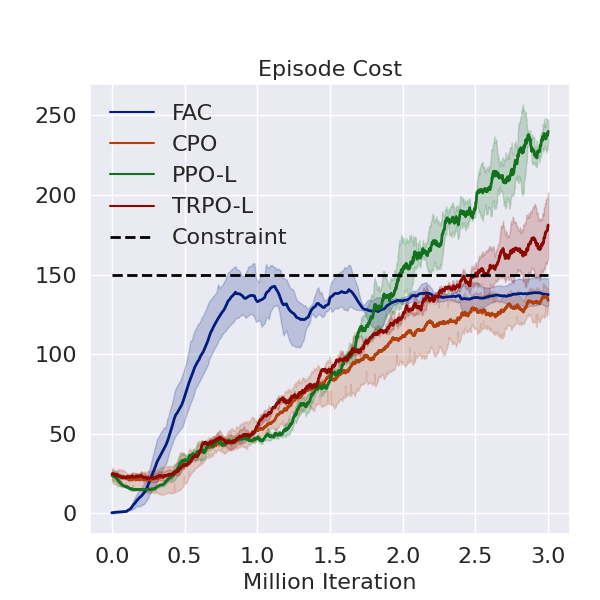
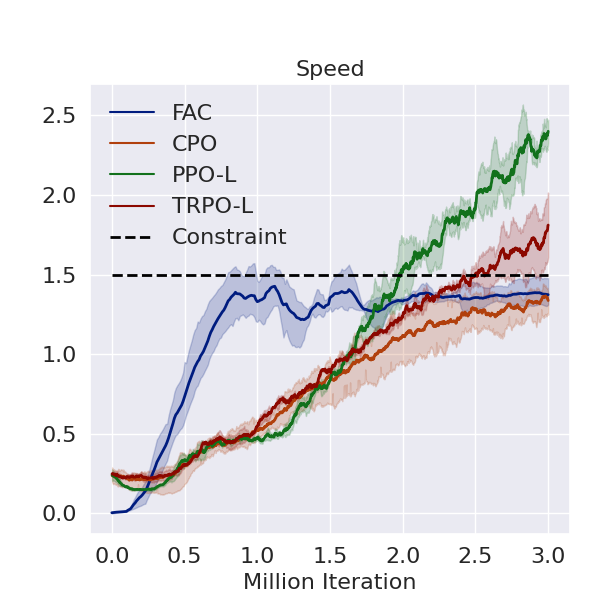
update lineplot

diff --git a/data_process/lineplot.py b/data_process/lineplot.py
@@ -19,13 +19,13 @@ SMOOTHFACTOR3 = 10
 DIV_LINE_WIDTH = 50
 txt_store_alg_list = ['CPO', 'PPO-Lagrangian', 'TRPO-Lagrangian']
 ylim_dict = {'episode_return':{'CarGoal': [-5, 25],'PointButton': [-15, 33]},
-             'episode_cost':{'CarGoal': [0, 280],'PointButton': [20, 160]}} # {'CarGoal': [-5, 25]}
+             'episode_cost':{'CarGoal': [0, 28],'PointButton': [2, 16]}} # {'CarGoal': [-5, 25]}
 
 def help_func():
-    tag2plot = ['episode_return']
+    tag2plot = ['episode_cost']
     alg_list = [ 'FSAC','CPO', 'PPO-Lagrangian', 'TRPO-Lagrangian', ] # 'SAC','SAC-Lagrangian',, 'TRPO-Lagrangian'
     lbs = [ 'FAC','CPO', 'PPO-L', 'TRPO-L', ] # 'SAC','SAC-Lagrangian',, 'TRPO-Lagrangian'
-    task = ['CarGoal']
+    task = ['PointButton']
     #todo: CarGoal: sac
     #todo: CarButton: sac choose better fac
     # todo: CarPush: ???
@@ -83,6 +83,9 @@ def plot_eval_results_of_all_alg_n_runs(dirs_dict_for_plot=None):
                         len1, len2 = len(data_in_one_run_of_one_alg['iteration']), len(data_in_one_run_of_one_alg[tag2plot[0]])
                         period = int(len1/len2)
                         data_in_one_run_of_one_alg['iteration'] = [data_in_one_run_of_one_alg['iteration'][i*period]/1000000. for i in range(len2)]
+                        if 'episode_cost' in data_in_one_run_of_one_alg.keys():
+                            data_in_one_run_of_one_alg['episode_cost'] = np.array(data_in_one_run_of_one_alg[
+                                                                             'episode_cost']) / 10
 
                         data_in_one_run_of_one_alg.update(dict(algorithm=alg, num_run=num_run))
                         df_in_one_run_of_one_alg = pd.DataFrame(data_in_one_run_of_one_alg)
@@ -112,7 +115,7 @@ def plot_eval_results_of_all_alg_n_runs(dirs_dict_for_plot=None):
             sns.lineplot(x="iteration", y=tag2plot[0], hue="algorithm",
                          data=total_dataframe, linewidth=2, palette=palette
                          )
-        base = 40 if task == 'PointGoal' else 100
+        base = 4 if task == 'PointGoal' else 10
         handles, labels = ax1.get_legend_handles_labels()
         labels = lbs
         if tag == 'episode_cost':
@@ -129,7 +132,7 @@ def plot_eval_results_of_all_alg_n_runs(dirs_dict_for_plot=None):
         print(compare_dict)
         # title = 'Episode Return {} \n {:+.0%} {:+.0%} {:+.0%}\n over TRPO-L, CPO, PPO-L'\
         #     .format(task, compare_dict['TRPO-Lagrangian'], compare_dict['CPO'], compare_dict['PPO-Lagrangian']) if tag == 'episode_return' else 'Episode Cost'
-        title = 'Reward ({})'.format(task) if tag == 'episode_return' else 'Cost ({})'.format(task)
+        title = 'Reward ({})'.format(task) if tag == 'episode_return' else 'Cost Rate (%) ({})'.format(task)
         if task in ylim_dict[tag]:
             ax1.set_ylim(*ylim_dict[tag][task])
         ax1.set_title(title, fontsize=fontsize)
@@ -178,7 +181,7 @@ def get_datasets(logdir, tag2plot, alg, condition=None, smooth=SMOOTHFACTOR3, nu
             exp_data.insert(len(exp_data.columns),'Performance',exp_data[performance])
             exp_data.insert(len(exp_data.columns),'algorithm',alg)
             exp_data.insert(len(exp_data.columns), 'iteration', exp_data['TotalEnvInteracts']/1000000)
-            exp_data.insert(len(exp_data.columns), 'episode_cost', exp_data['AverageEpCost'])
+            exp_data.insert(len(exp_data.columns), 'episode_cost', exp_data['AverageEpCost'] / 10)
             exp_data.insert(len(exp_data.columns), 'episode_return', exp_data['AverageEpRet'])
             exp_data.insert(len(exp_data.columns), 'num_run', num_run)
             datasets.append(exp_data)

diff --git a/data_process/lineplot_mujoco.py b/data_process/lineplot_mujoco.py
@@ -18,7 +18,7 @@ SMOOTHFACTOR2 = 20
 SMOOTHFACTOR3 = 20
 DIV_LINE_WIDTH = 50
 txt_store_alg_list = ['CPO', 'PPO-Lagrangian', 'TRPO-Lagrangian']
-base_dict = dict(HalfCheetah=150, Ant=150)
+base_dict = dict(HalfCheetah=1.5, Ant=1.5)
 fsac_final_list = ['conti100HalfCheetah-2021-05-13-20-58-14-s4', 'conti100HalfCheetah-2021-05-14-00-33-41-s2'
                    ,'conti240HalfCheetah-2021-05-14-22-26-58-s3']
 ylim_dict = {'episode_return':{'HalfCheetah': [-1000,2500]},'episode_cost':{}}
@@ -119,7 +119,8 @@ def plot_eval_results_of_all_alg_n_runs(dirs_dict_for_plot=None):
                         len1, len2 = len(data_in_one_run_of_one_alg['iteration']), len(data_in_one_run_of_one_alg[tag2plot[0]])
                         period = int(len1/len2)
                         data_in_one_run_of_one_alg['iteration'] = [data_in_one_run_of_one_alg['iteration'][i*period]/1000000. for i in range(len2)]
-
+                        if 'episode_cost' in data_in_one_run_of_one_alg.keys():
+                            data_in_one_run_of_one_alg['episode_cost'] = np.array(data_in_one_run_of_one_alg['episode_cost']) / 100
                         data_in_one_run_of_one_alg.update(dict(algorithm=alg, num_run=num_run))
                         df_in_one_run_of_one_alg = pd.DataFrame(data_in_one_run_of_one_alg)
                         y = np.ones(SMOOTHFACTOR2)
@@ -168,7 +169,7 @@ def plot_eval_results_of_all_alg_n_runs(dirs_dict_for_plot=None):
         ax1.set_xlabel("Million Iteration", fontsize=fontsize)
         print(compare_dict)
         title = 'Reward ({}) \n {:+.0%}, {:+.0%}, {:+.0%}\n over CPO, TRPO-L, PPO-L'\
-            .format(task, compare_dict['CPO'], compare_dict['TRPO-Lagrangian'], compare_dict['PPO-Lagrangian']) if tag == 'episode_return' else 'Episode Cost'
+            .format(task, compare_dict['CPO'], compare_dict['TRPO-Lagrangian'], compare_dict['PPO-Lagrangian']) if tag == 'episode_return' else 'Speed'
         ax1.set_title(title, fontsize=fontsize)
         if task in ylim_dict[tag]:
             ax1.set_ylim(*ylim_dict[tag][task])
@@ -216,7 +217,7 @@ def get_datasets(logdir, tag2plot, alg, condition=None, smooth=SMOOTHFACTOR3, nu
             exp_data.insert(len(exp_data.columns),'Performance',exp_data[performance])
             exp_data.insert(len(exp_data.columns),'algorithm',alg)
             exp_data.insert(len(exp_data.columns), 'iteration', exp_data['TotalEnvInteracts']/1000000)
-            exp_data.insert(len(exp_data.columns), 'episode_cost', exp_data['AverageEpCost'])
+            exp_data.insert(len(exp_data.columns), 'episode_cost', exp_data['AverageEpCost']/100)
             exp_data.insert(len(exp_data.columns), 'episode_return', exp_data['AverageEpRet'])
             exp_data.insert(len(exp_data.columns), 'num_run', num_run)
             datasets.append(exp_data)
